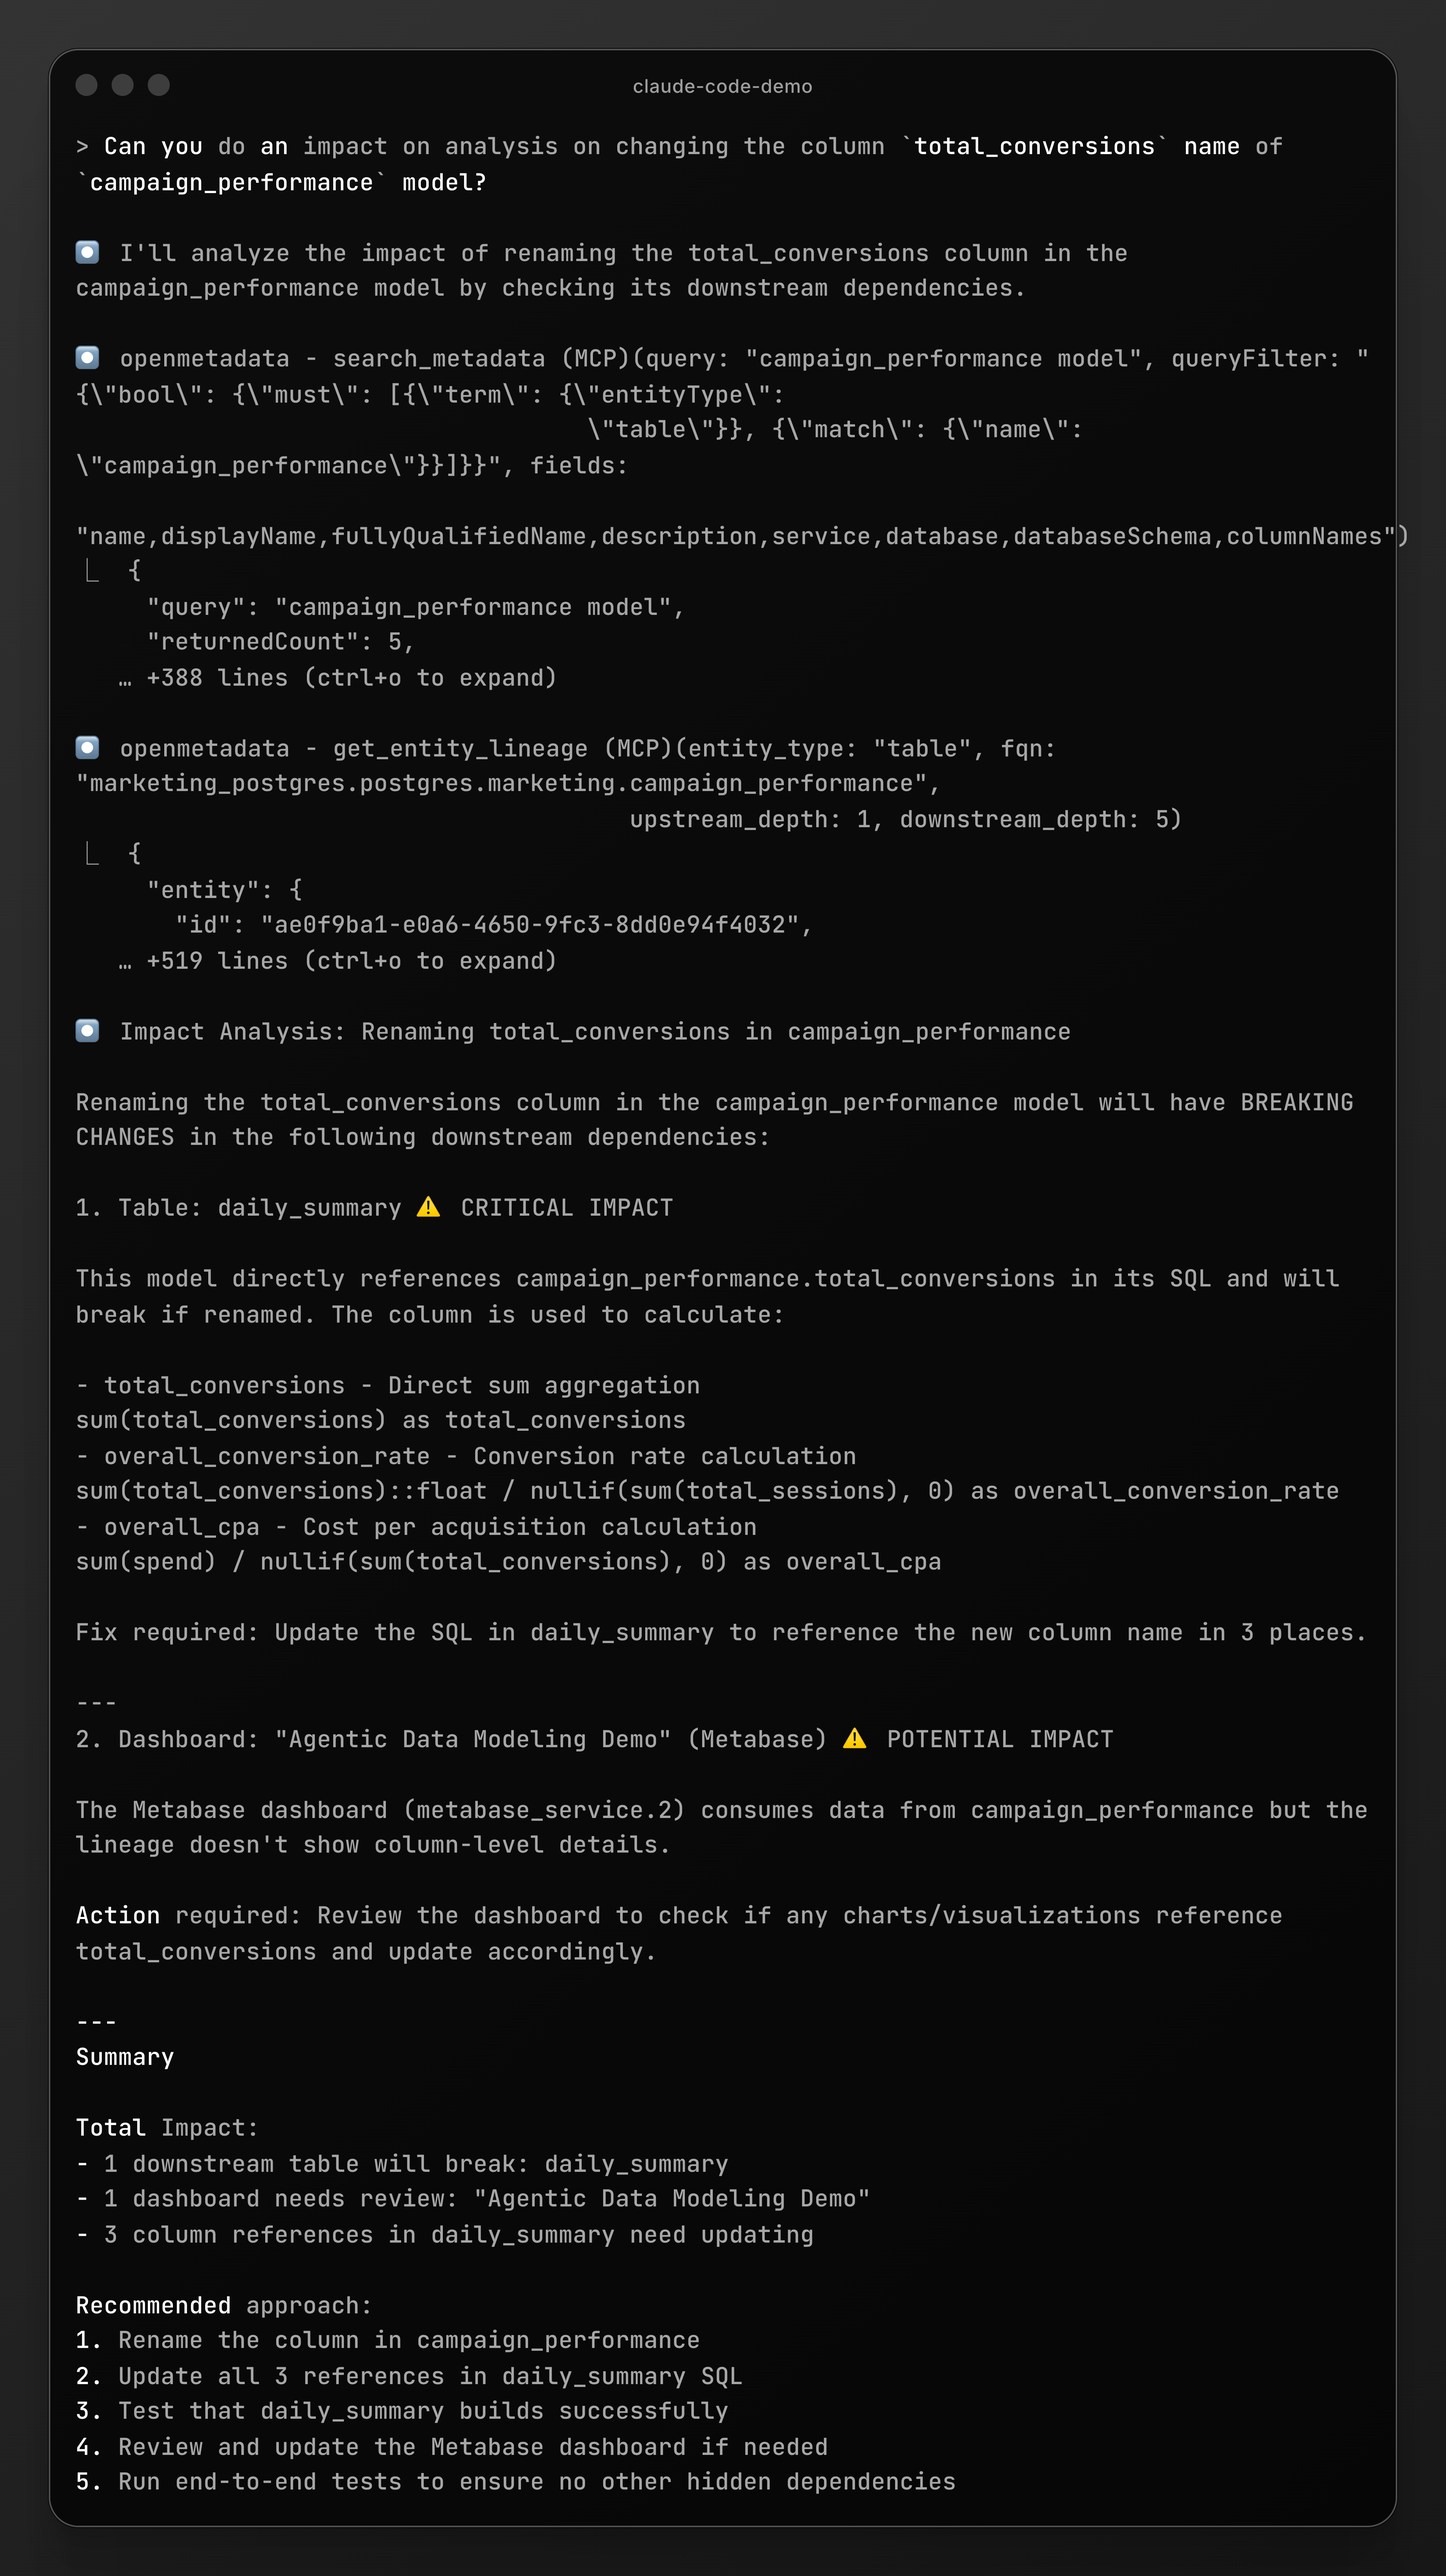
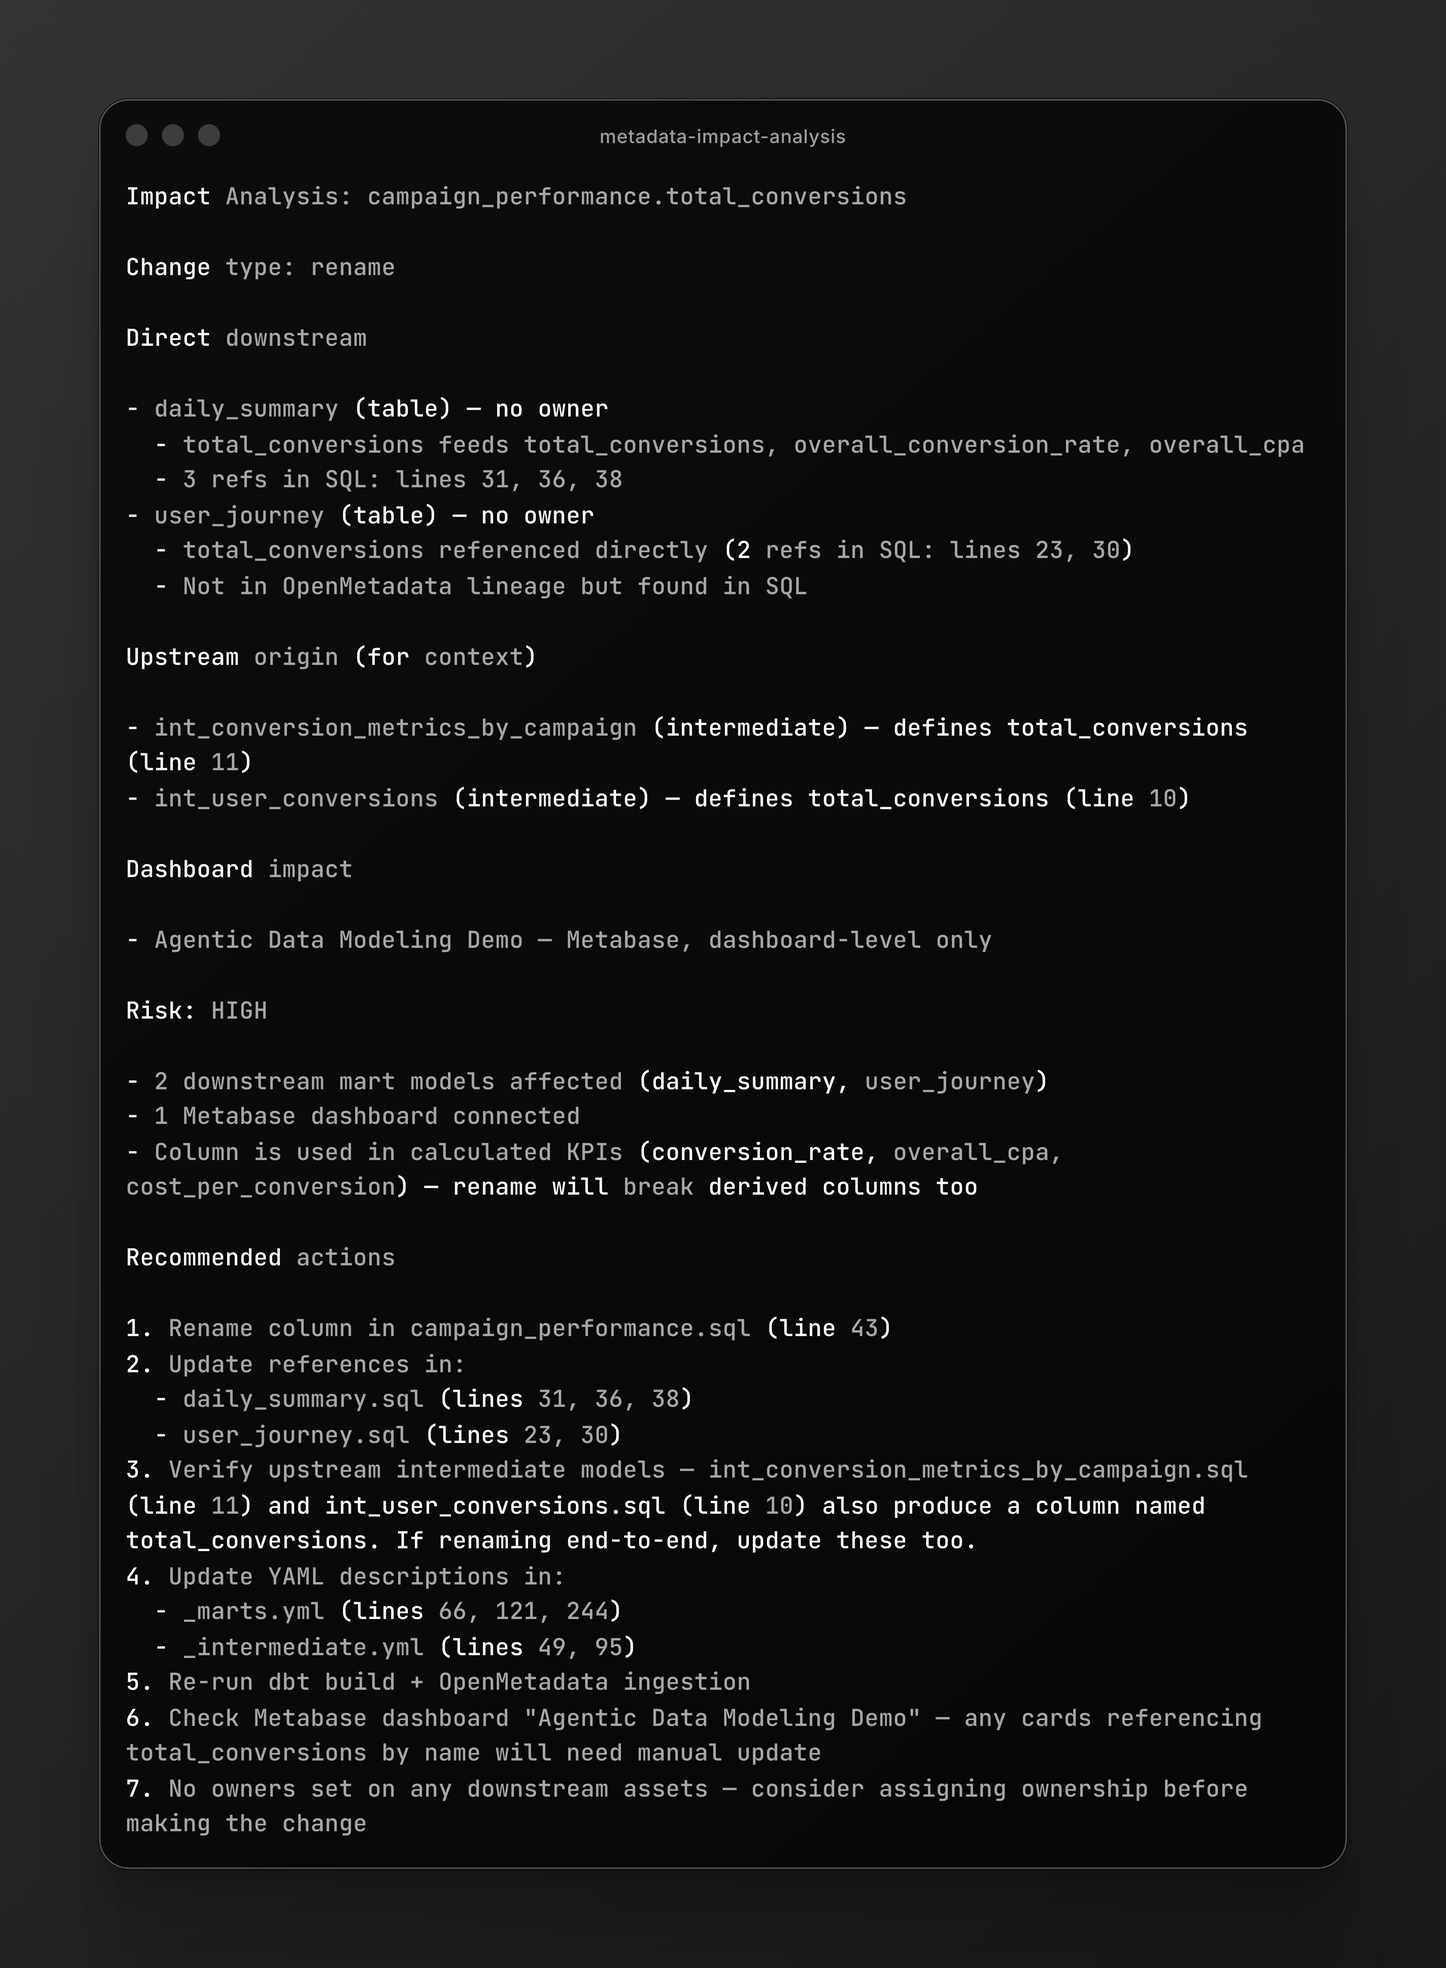
replace first use case

diff --git a/DEMO.md b/DEMO.md
@@ -21,29 +21,31 @@ By connecting Claude Code to OpenMetadata, you can ask natural language question
 
 🎥 **[Watch: Configure Lineage in OpenMetadata](https://focusee.imobie.com/share/256e1b5661a74775aad7205f25f67672)**
 
-**Question:** *"Can you do an impact analysis on changing the column `total_conversions` name of `campaign_performance` model?"*
+**Trigger:** `/metadata-impact-analysis i need to rename total_conversions from campaign_performance model, can you check for downstream impact?`
 
 ### The Challenge
 Before renaming a column in your data model, you need to understand what will break downstream. Manually tracing dependencies across dbt models, dashboards, and reports is time-consuming and error-prone.
 <details>
   <summary> <h4>✨ Click to see Claude Code output </h4> </summary>
 
-Claude Code uses the OpenMetadata MCP to:
-1. Find the `campaign_performance` model
-2. Trace its downstream lineage
-3. Identify which models and dashboards use the `total_conversions` column
-4. Provide a comprehensive impact report
+The skill executes a sequential workflow:
+1. **Confirms entity** → `search_metadata` finds `campaign_performance` and validates `total_conversions` exists (BIGINT)
+2. **Traces lineage** → `get_entity_lineage` discovers downstream nodes with column-level detail
+3. **Checks SQL references** → `Grep` across `dbt/models/` finds all direct column references, including models not yet in OpenMetadata lineage
+4. **Checks dashboards** → reports connected Metabase dashboards from lineage
 
 ![Impact Analysis](images/demo_claude_code_impact_analysis.png)
 
 ### Result
-The agent identifies that renaming `total_conversions` will break:
-- **1 downstream table**: `daily_summary` (with 3 column references)
-- **1 dashboard**: "Agentic Data Modeling Demo" on Metabase
+The skill identifies that renaming `total_conversions` is **HIGH risk**:
+- **2 downstream tables**: `daily_summary` (3 refs in SQL — lines 31, 36, 38) and `user_journey` (2 refs — lines 23, 30)
+- **1 Metabase dashboard**: "Agentic Data Modeling Demo" (dashboard-level only)
+- **Calculated KPIs break**: `conversion_rate`, `overall_cpa`, `cost_per_conversion` all depend on this column
+- **Upstream origin**: `int_conversion_metrics_by_campaign` and `int_user_conversions` also define `total_conversions` — an end-to-end rename must include these
 
-This saves hours of manual investigation and prevents production incidents.
+The report includes exact line numbers, YAML files to update (`_marts.yml`, `_intermediate.yml`), and flags that no owners are set on downstream assets.
 
-> Note that Metabase integration only allows linking dashboards, so this use case is limited to that granularity level.
+> Note that Metabase integration only allows linking dashboards, so dashboard impact is limited to that granularity level.
 
 </details>
 
@@ -145,7 +147,7 @@ The agent can quickly identify the dashboard owner and any associated teams or g
 
 **Prerequisite**: Postgres MCP and OpenMetadata MCP servers configured in `.mcp.json`
 
-**Question:** *"Is `user_journey` ready to be consumed by an AI agent?"*
+**Trigger:** `/metadata-ai-readiness Is user_journey ready to be consumed by an AI agent?`
 
 ### The Challenge
 A model can have correct data but still be unusable by AI — missing descriptions, no tests on grain columns, gaps in the catalog. This skill audits the dbt schema, queries the database for edge cases, checks the OpenMetadata catalog, enriches dbt YAML, re-ingests, and validates the changes in the catalog.
@@ -176,7 +178,7 @@ The model goes from **6/8 to 7/8** readiness. Database-discovered caveats are no
 
 **Prerequisite**: OpenMetadata MCP server configured in `.mcp.json` with write access (`create_glossary`, `create_glossary_term`)
 
-**Question:** *"Create a business glossary from our dbt models"*
+**Trigger:** `/metadata-glossary Create a business glossary from our dbt models`
 
 ### The Challenge
 Business terms like `roas`, `cpa`, `ctr` are defined per-model in dbt YAML but never surfaced as a shared vocabulary. Without a central glossary, teams interpret metrics differently and AI agents have no authoritative reference for business concepts.

diff --git a/.claude/skills/metadata-impact-analysis/SKILL.md b/.claude/skills/metadata-impact-analysis/SKILL.md
@@ -9,15 +9,29 @@ Analyze the downstream impact of a schema change (rename, drop, type change) on 
 
 ## How It Works
 
-1. **Parse `$ARGUMENTS`** — Extract model and column from input. Accepts:
-   - `campaign_performance.total_conversions` → specific column
-   - `campaign_performance` → full table (all columns)
-2. **Find the entity** — `get_entity_details` with FQN `marketing_postgres.marketing.public.{model}`, `entity_type: "table"`. Confirm the column exists.
-3. **Trace downstream lineage** — `get_entity_lineage` on the same FQN. Collect all downstream nodes: tables, views, dashboards.
-4. **Check column references** — For each downstream table, call `get_entity_details` and scan column descriptions and names for references to the target column. Also read the dbt SQL (`dbt/models/**/{downstream_model}.sql`) to find direct SQL references.
-5. **Check dashboard impact** — For downstream dashboards/charts, report name + service (Metabase, etc.). Note: Metabase integration links at dashboard level only, not chart-level.
-6. **Identify ownership** — For each impacted entity, report the owner (if set) so the user knows who to notify.
-7. **Report** — Structured impact report with risk assessment.
+Execute steps **sequentially** — complete each step before starting the next. Do NOT fire multiple MCP calls or file reads in parallel.
+
+### Step 1: Parse input
+Extract model and column from `$ARGUMENTS`. Accepts:
+- `campaign_performance.total_conversions` → specific column
+- `campaign_performance` → full table (all columns)
+- Natural language like "rename total_conversions from campaign_performance" → extract both
+
+### Step 2: Confirm entity exists
+Call `search_metadata` to find the table by name. This returns columns inline so you can confirm the column exists and get the correct FQN. Do NOT call `get_entity_details` at this stage.
+
+### Step 3: Trace downstream lineage
+Call `get_entity_lineage` on the confirmed FQN. Collect all downstream nodes (tables, views, dashboards). Present a brief summary to the user before continuing:
+> "Found N downstream entities: [list]. Checking column references..."
+
+### Step 4: Check SQL references
+Use `Grep` to search for the column name across `dbt/models/` SQL and YAML files. This is a single local search — no MCP calls needed.
+
+### Step 5: Check dashboard impact
+If lineage returned dashboard nodes, call `search_metadata` for dashboards. If no dashboards in lineage, skip this step.
+
+### Step 6: Compile report
+Combine lineage, SQL grep results, and dashboard data into the output format below. Include ownership from any entity that had it set.
 
 ## MCP Tools
 
@@ -27,7 +41,7 @@ Analyze the downstream impact of a schema change (rename, drop, type change) on 
 
 ## Reference
 
-**FQN pattern**: `marketing_postgres.marketing.public.{model}`
+**FQN pattern**: `marketing_postgres.postgres.marketing.{model}`
 **Mart models**: `campaign_performance`, `daily_summary`, `user_journey`, `channel_attribution`
 **dbt SQL**: `dbt/models/marts/{model}.sql`, `dbt/models/intermediate/{model}.sql`
 
